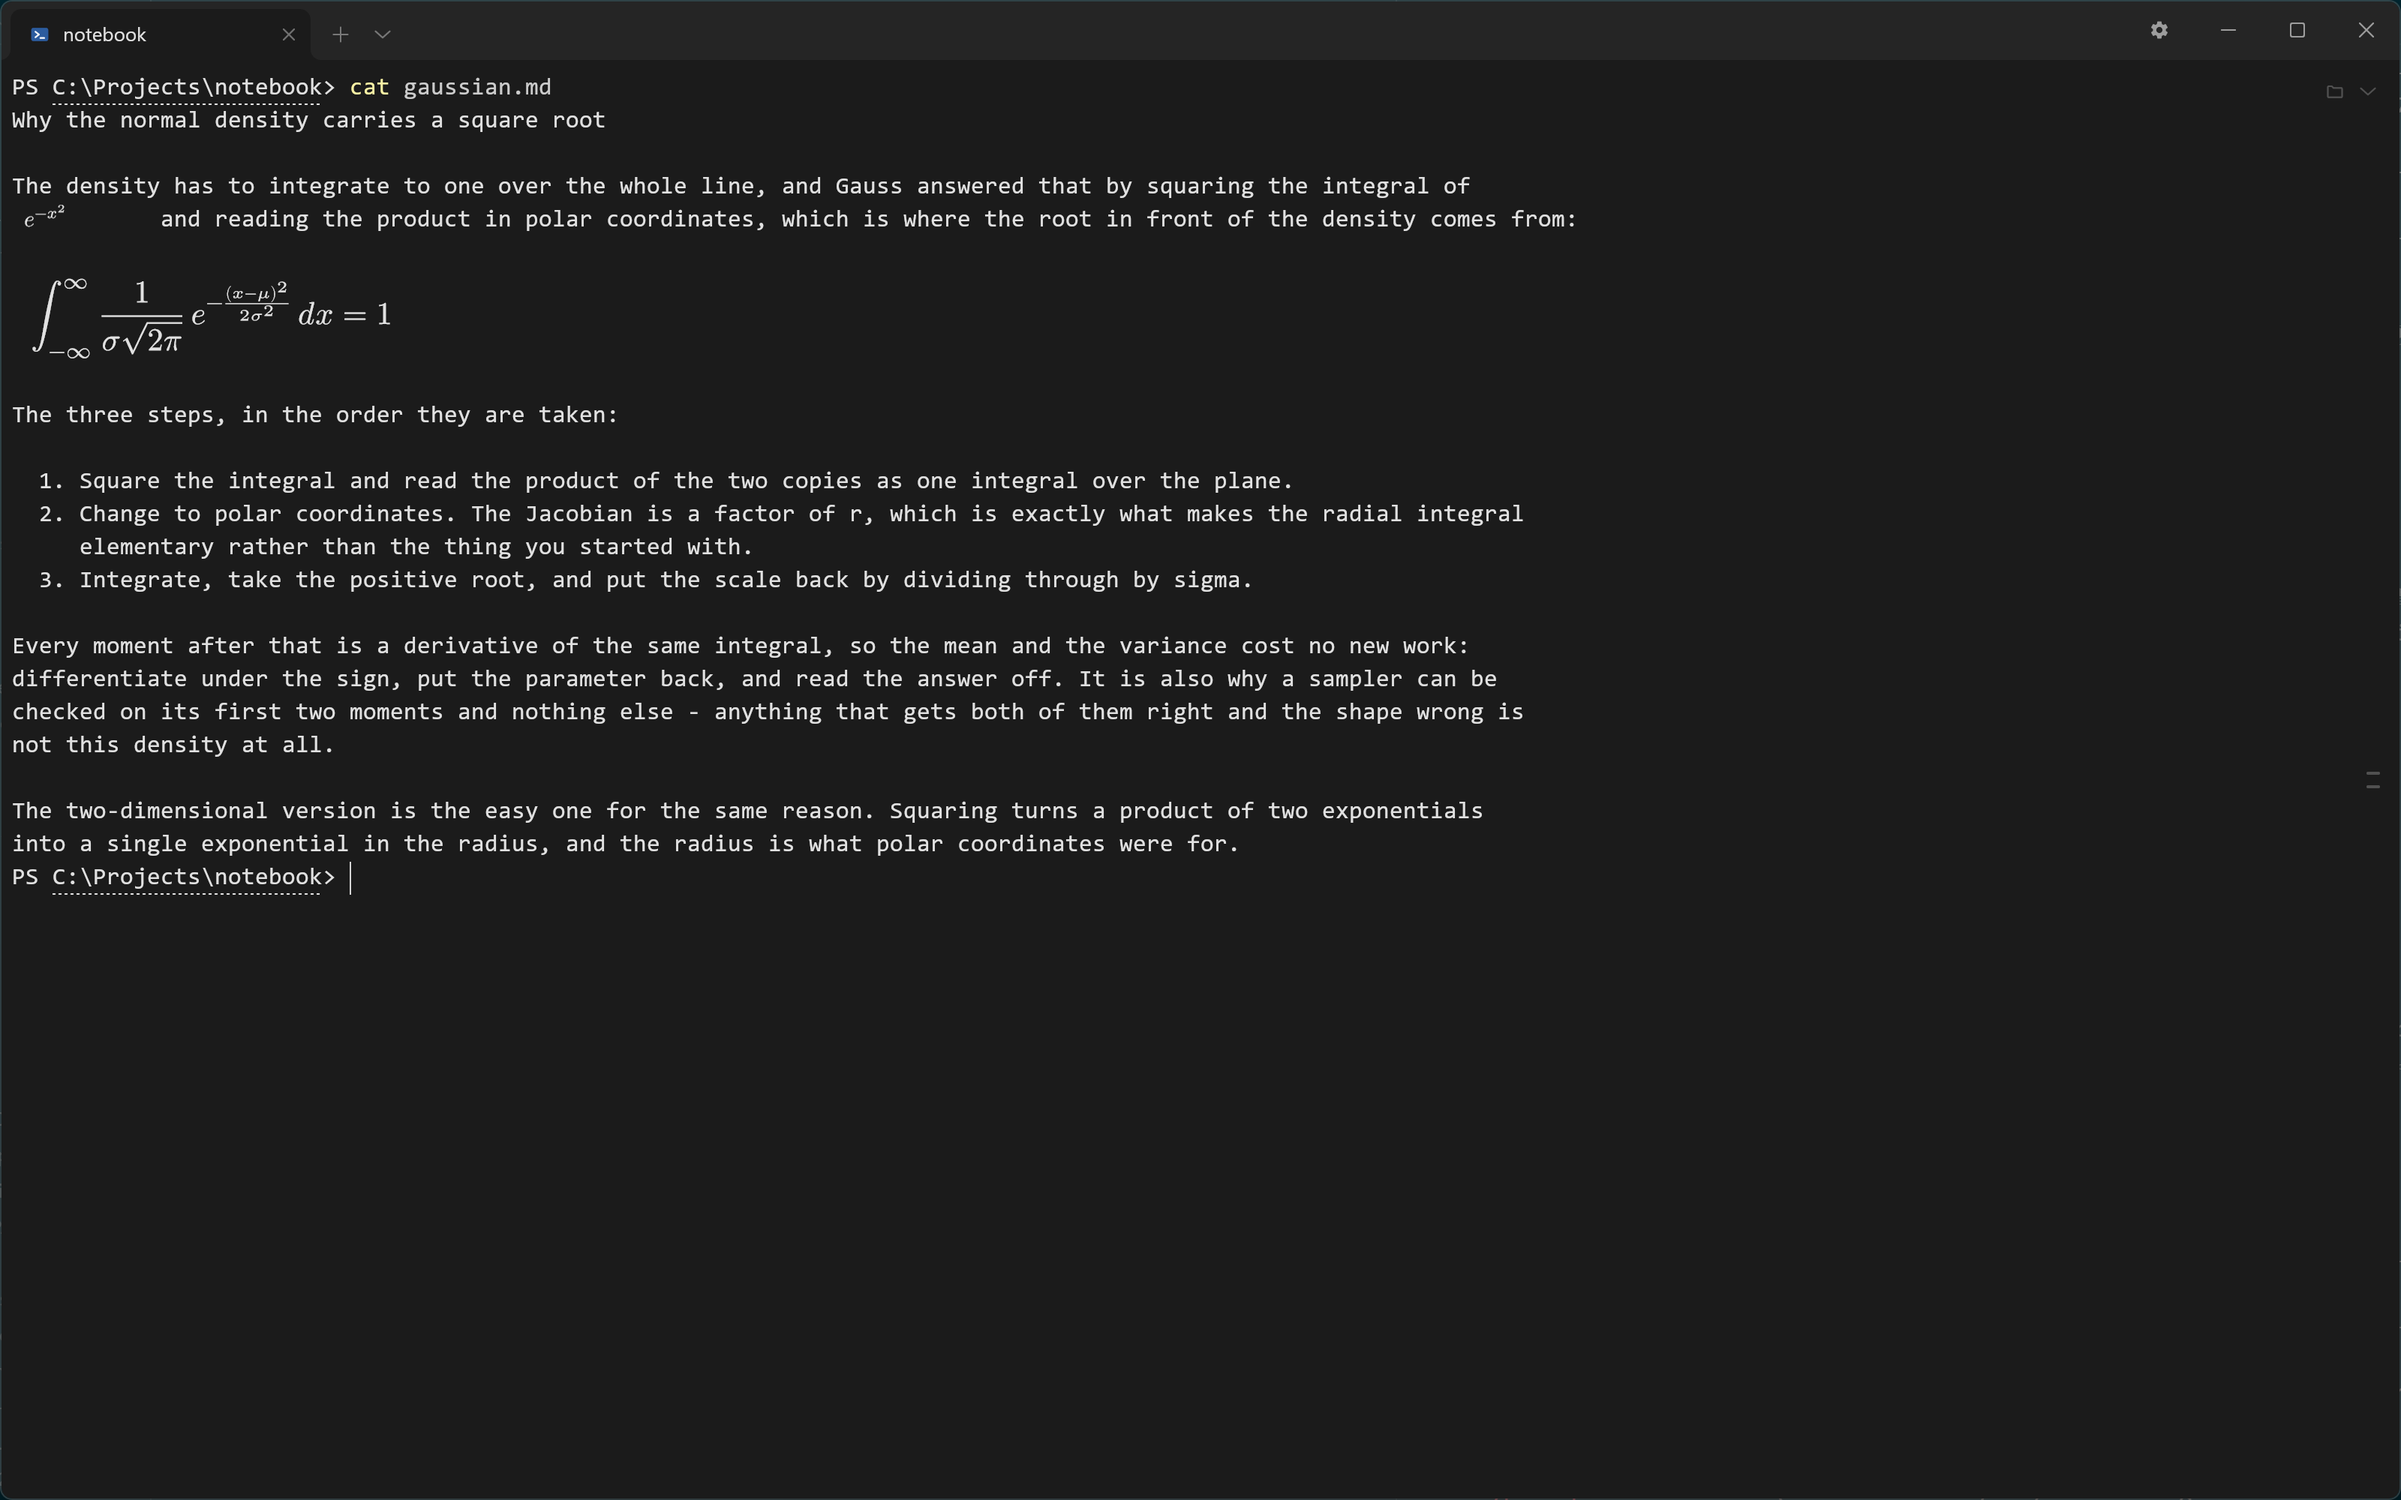
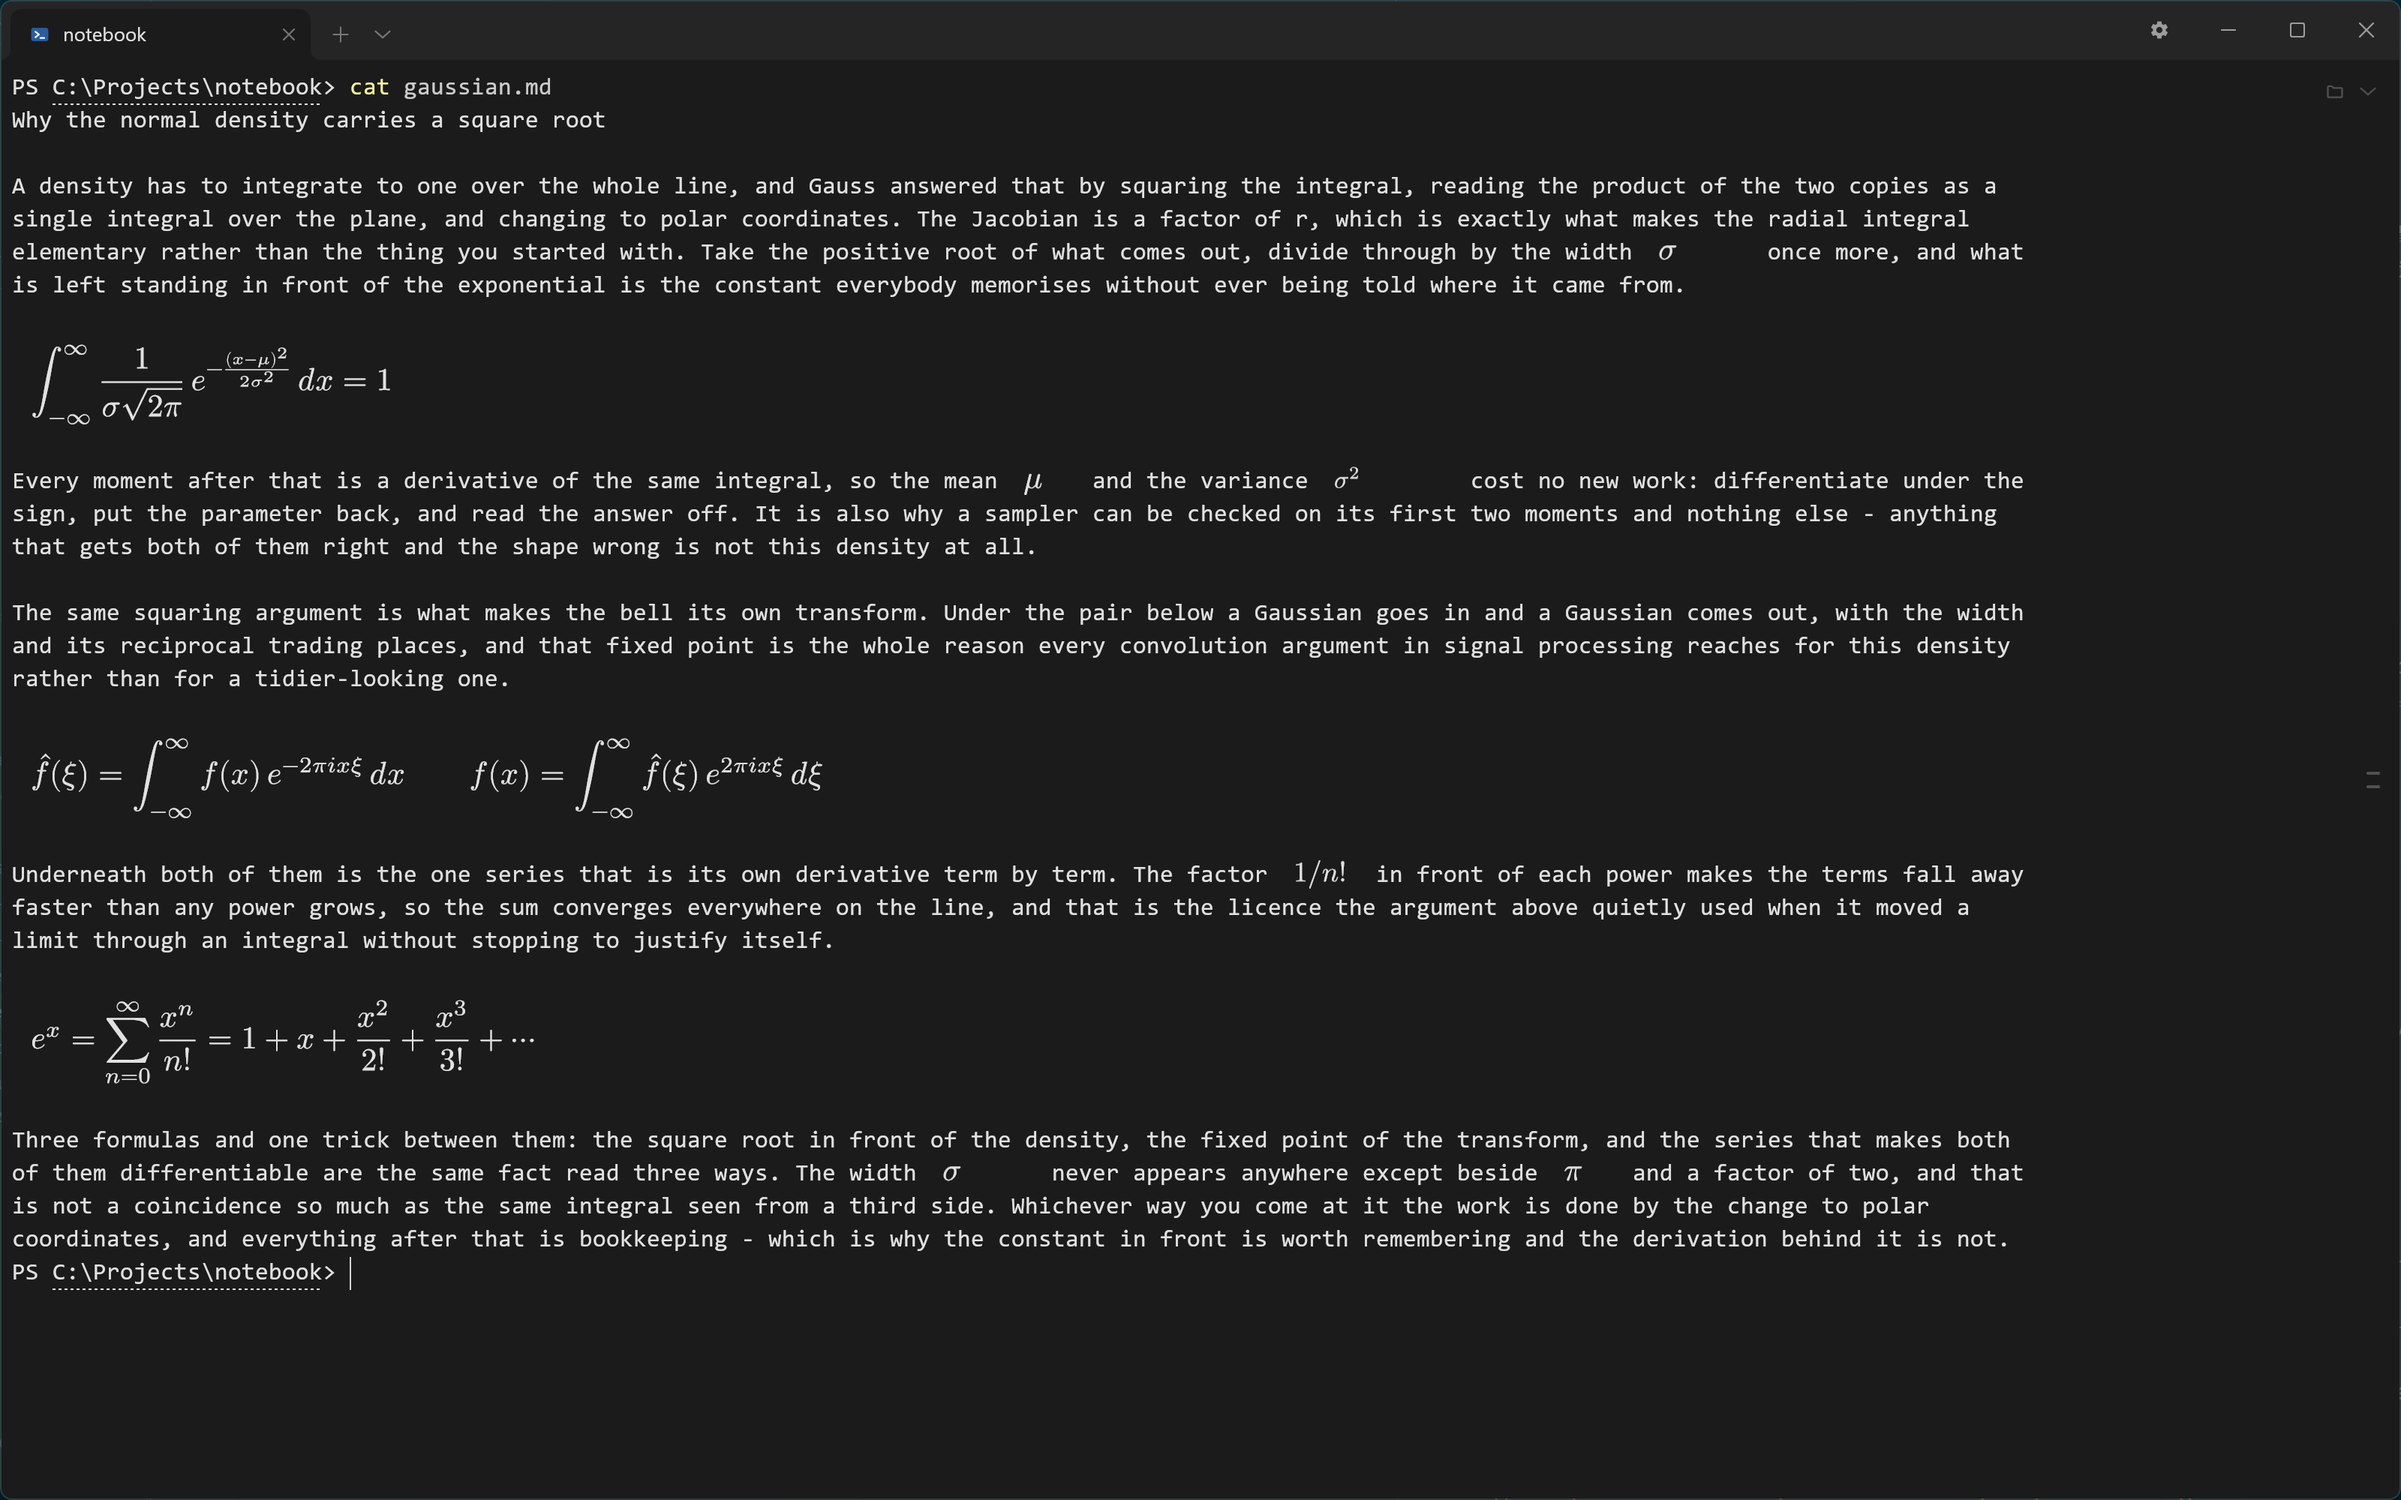
the formula pair is taken again with the page filled, three display formulas and the inline ones kept to a glyph mid-sentence

diff --git a/docs/screenshots/README.md b/docs/screenshots/README.md
@@ -36,7 +36,7 @@ exactly the picture JPEG is worst at.
 
 | File | Scene |
 | --- | --- |
-| `terminal-math-light.png` | One terminal pane and nothing else open, showing a command whose output was typeset where it was printed: a sentence with an inline formula inside it and a display formula on its own line. Nothing else competes for the eye — the picture says only that mathematics in command output is mathematics. |
+| `terminal-math-light.png` | One terminal pane and nothing else open, showing a command whose output was typeset where it was printed: paragraphs that run most of the way across the pane, three display formulas spread down it, and short inline ones inside the sentences between them. Nothing else competes for the eye — the picture says only that mathematics in command output is mathematics. |
 | `terminal-math-dark.png` | The same, dark. |
 | `main-window-light.png` | The three-column window: a files column on the left, two terminal panes side by side in the middle, a markdown document open in a preview pane on the right. Something real in the terminal — a build running, a directory listing — not an empty prompt. |
 | `main-window-dark.png` | The same window, dark scheme, same content. |
@@ -59,8 +59,8 @@ can be told from one that was retaken on purpose.
 
 | File | Size | Taken | SHA-256 |
 | --- | --- | --- | --- |
[7 lines of base64/hex data omitted]
@@ -74,7 +74,7 @@ can be told from one that was retaken on purpose.
[2 lines of base64/hex data omitted]
 
-The fourteen come to 2.45 MiB after `oxipng`; `docs/plans/release/large-files.md`
+The fourteen come to 2.57 MiB after `oxipng`; `docs/plans/release/large-files.md`
 carries that number beside everything else a clone has to fetch.
 
 ## What was in front of the camera
@@ -103,6 +103,19 @@ as candidate text — so it goes in through the clipboard and `Ctrl+V`, which is
 modified key the IME does not take. Its folder is `C:\Projects\notebook`, one
 file and no repository, so that the other thirteen see a project that has not
 grown a directory for this one's sake.
+
+That one file is as long as it is on purpose. The first take of this pair filled
+the top third of the window and the left half of the pane, with a single display
+formula adrift in the white below it, and a reader's fair reading of that picture
+is that the program had run out of things to draw. So the document was written to
+the window: prose wrapped at 150 columns of the 177 the pane holds, enough of it
+to reach about 86% of the way down, and three display formulas — the Gaussian
+normalisation integral, the Fourier pair and the exponential series — spread top,
+middle and bottom. The inline runs are short ones (`$\sigma$`, `$\mu$`, `$1/n!$`,
+`$\pi$`), placed mid-sentence and never before a comma: an inline formula is drawn
+at cell height inside the cells its *source* occupies, so a short formula written
+with long macros leaves the rest of that span blank, and that blank reads as a
+defect when punctuation lands on the far side of it.
 
 **Two device pixels to the logical one, and no display is touched.** The window
 is parked at exactly 3200 × 2000 physical pixels with `SetWindowPos`, on the

diff --git a/README.zh-CN.md b/README.zh-CN.md
@@ -25,8 +25,9 @@
   <source media="(prefers-color-scheme: dark)"
           srcset="docs/screenshots/terminal-math-dark.png">
   <img src="docs/screenshots/terminal-math-light.png" width="100%"
-       alt="一个终端窗格，一条命令的输出就在打印的地方排好了版：一句话里嵌着
-       行内公式，下面是独立成行的高斯归一化积分。">
+       alt="一个终端窗格，一条命令的输出就在打印的地方排好了版：几段文字里嵌着短的行内
+       公式，上、中、下各有一条独立成行的公式——高斯归一化积分、傅里叶变换对，
+       以及指数函数的级数。">
 </picture>
 
 Folio 会。命令输出里的 `$…$` 和 `$$…$$` 就排在命令打印它的地方；旁边的 markdown 预览

diff --git a/README.md b/README.md
@@ -28,8 +28,9 @@ another window.
           srcset="docs/screenshots/terminal-math-dark.png">
   <img src="docs/screenshots/terminal-math-light.png" width="100%"
        alt="A single terminal pane with the output of one command typeset where it
-       was printed: a sentence carrying an inline formula, and the Gaussian
-       normalisation integral set on a line of its own.">
+       was printed: paragraphs of prose carrying short inline formulas, and three
+       display formulas set on lines of their own — the Gaussian normalisation
+       integral, the Fourier transform pair, and the series for the exponential.">
 </picture>
 
 Folio sets it in two places through one typesetter — LaTeX through MiTeX into
